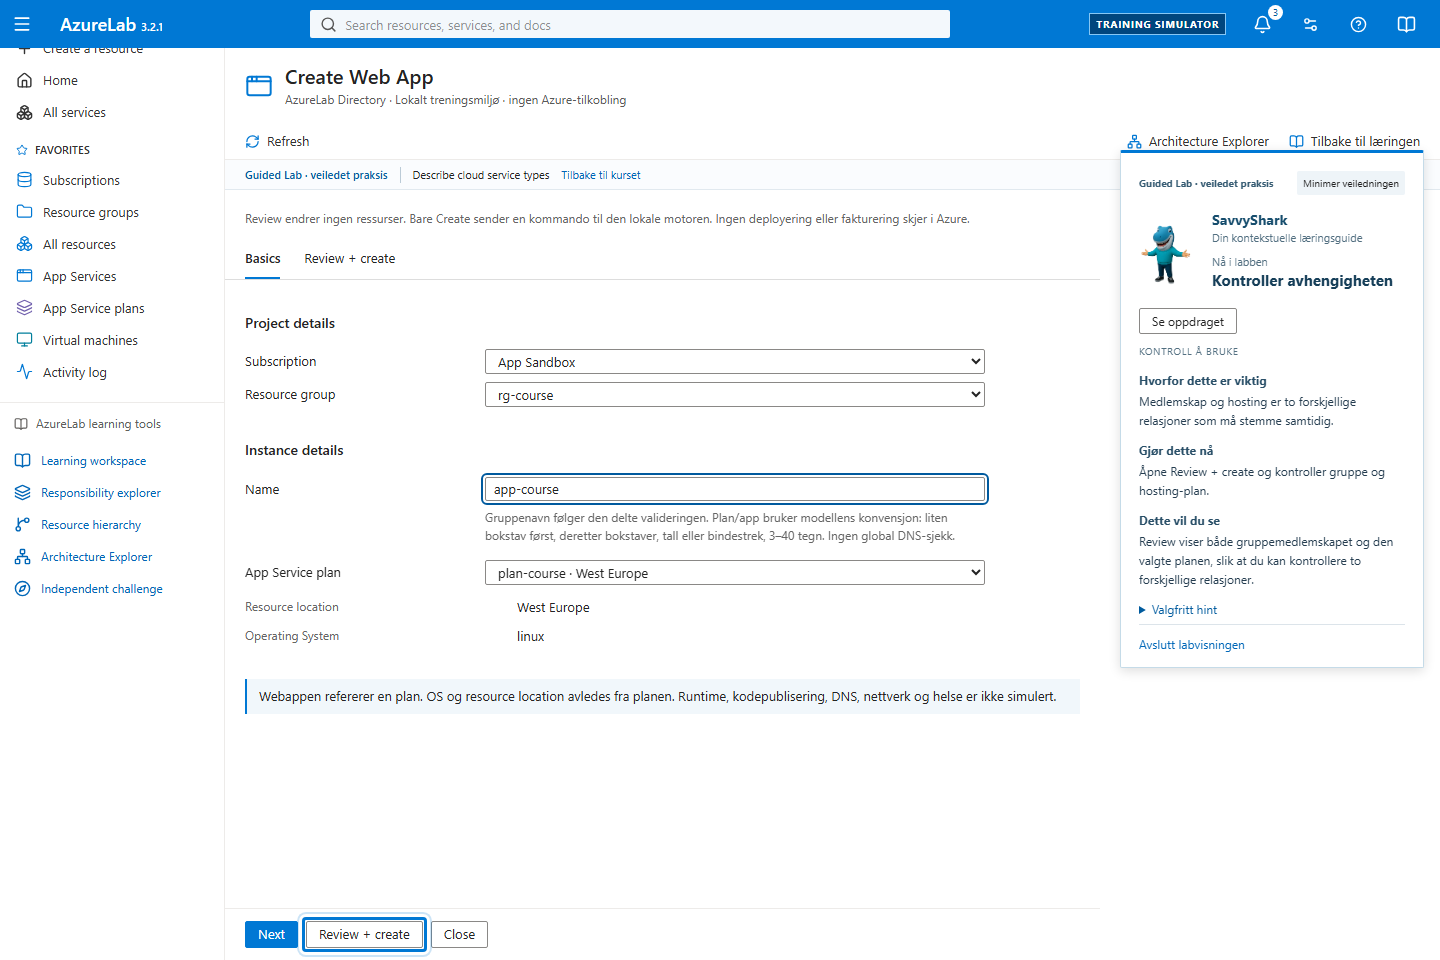
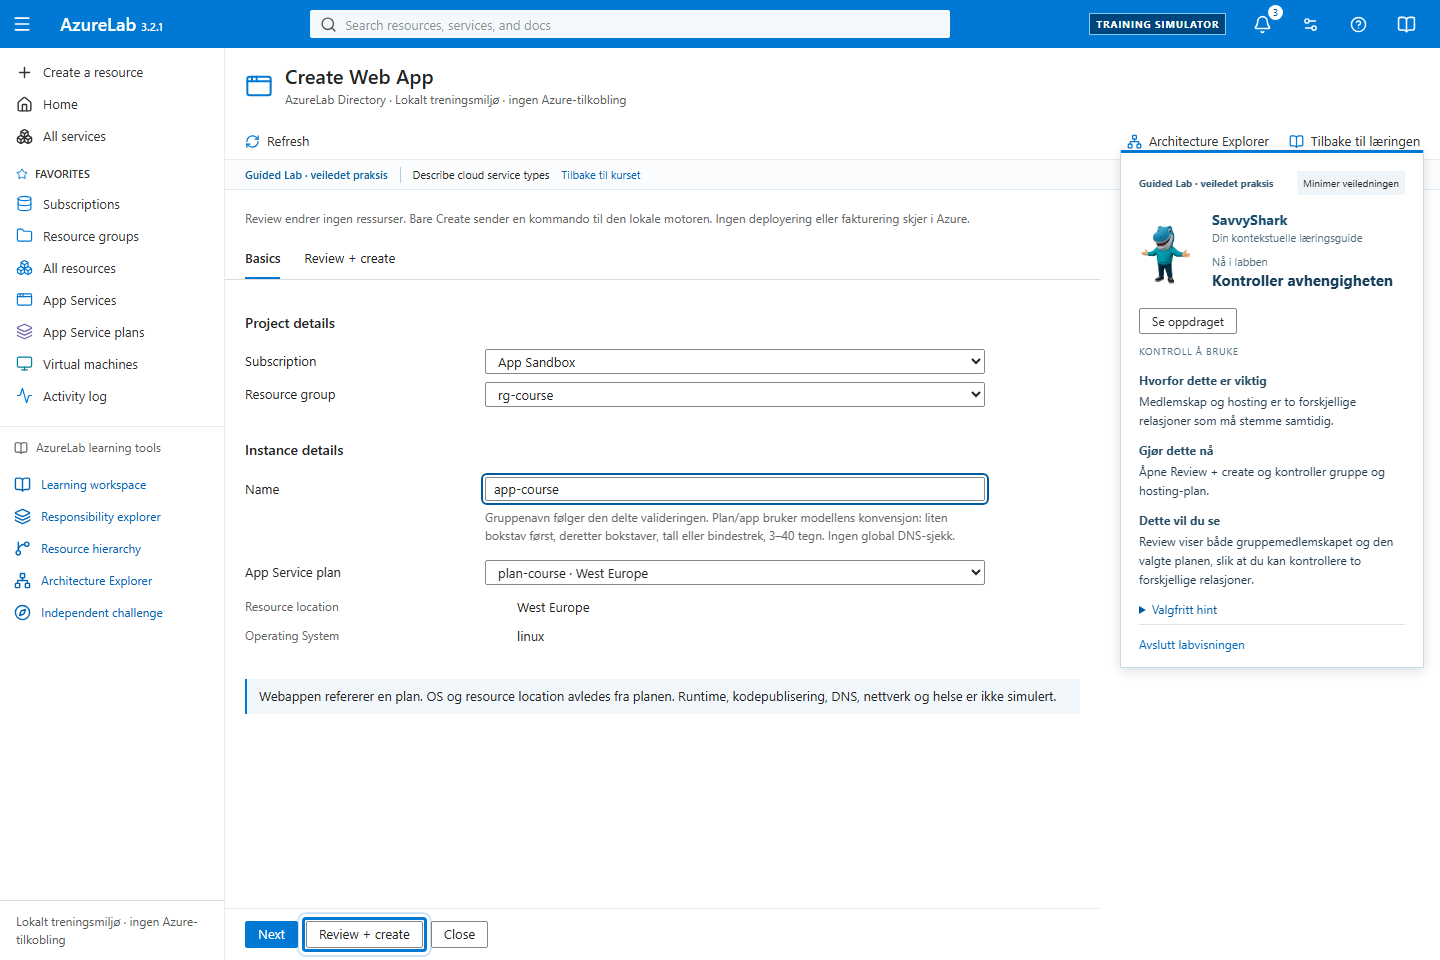
Keep service navigation docked and make PaaS inspection context-specific

Changed region(s): [[0.0, 0.0312, 0.125, 0.6562], [0.0, 0.9375, 0.125, 1.0]]

diff --git a/src/content/nb.ts b/src/content/nb.ts
@@ -4091,6 +4091,12 @@ export const learningPolishNb = {
       'Les valideringen. Rett feil, eller velg Create når den er gyldig.',
       'Bare en akseptert kvittering legger ressurser i samme autoritative inventory.',
     ],
+    inspectPaas: [
+      'Undersøk appkonfigurasjon og hosting',
+      'Appen er medlem av en resource group, men bruker planen som hosting-avhengighet. Innstillinger er et eget kundeansvar.',
+      'Åpne appen nedenfor, les de lagrede innstillingene og planreferansen, og bekreft inspeksjonen.',
+      'Sammenlign appens plan, avledede lokasjon og anvendte innstillinger med Architecture Explorer. Ingen kodekjøring eller restart er bekreftet.',
+    ],
     inspect: [
       'Følg de faktiske relasjonene',
       'Medlemskap, diskavhengighet og nettverkstilknytning betyr forskjellige ting.',

diff --git a/tests/e2e/portal-fidelity.spec.ts b/tests/e2e/portal-fidelity.spec.ts
@@ -185,6 +185,17 @@ for (const [width, height] of [
     await expect(page.locator('.portal-resource-main')).toContainText(ui.localId);
     await expect(page.locator('.portal-resource-main')).toContainText('app-fidelity');
     await expect(page.locator('.portal-app-settings')).toHaveCount(0);
+    if (width! > 1100) {
+      expect(
+        await page
+          .locator('.portal-nav')
+          .evaluate(
+            (el) =>
+              el.getBoundingClientRect().top >=
+              document.querySelector('.portal-header')!.getBoundingClientRect().bottom,
+          ),
+      ).toBe(true);
+    }
     await page.getByRole('button', { name: /Notifications/ }).click();
     await expect(page.locator('.portal-side-panel')).toBeVisible();
     await audit(page);

diff --git a/tests/e2e/practical-labs.spec.ts b/tests/e2e/practical-labs.spec.ts
@@ -334,6 +334,8 @@ test('root course to persisted VM, app settings, separate SaaS, exact debrief an
   await desktopEvidence(page, info, 'app-settings');
   await page.getByRole('button', { name: t.settings.apply, exact: true }).click();
   await expect(page.locator('.portal-infrastructure')).toContainText('staging');
+  await expect(page.locator('.practical-coach')).toContainText(polish.guide.inspectPaas[3]);
+  await expect(page.locator('.practical-coach')).not.toContainText(polish.guide.inspect[3]);
   await inspect(page);
   await page.reload();
   await expect(page.locator('.portal-infrastructure')).toContainText('read-only');

diff --git a/src/features/course/practical-lab.tsx b/src/features/course/practical-lab.tsx
@@ -437,7 +437,8 @@ export function PracticalCoach({
     `${location.area}:${location.id}:${location.kind}`,
   );
   if (!active || !s) return null;
-  const instruction = polish.guide[phase];
+  const instruction =
+    phase === 'inspect' && s.kind === 'paas' ? polish.guide.inspectPaas : polish.guide[phase];
   return (
     <>
       {bounds?.visible && (

diff --git a/src/features/portal/portal.css b/src/features/portal/portal.css
@@ -259,6 +259,11 @@
   min-height: calc(100dvh - 48px);
 }
 .portal-nav {
+  position: sticky;
+  top: var(--portal-header);
+  height: calc(100dvh - var(--portal-header));
+  align-self: flex-start;
+  overflow-y: auto;
   width: var(--portal-nav);
   flex: 0 0 var(--portal-nav);
   background: #fff;

diff --git a/docs/PORTAL_REFERENCE_FIDELITY.md b/docs/PORTAL_REFERENCE_FIDELITY.md
@@ -49,9 +49,9 @@ No domain, replay adapter, store, assessment, XP, dependency or lockfile change.
 
 ### Actual visual review
 
-Compared official public form/menu/appearance screenshots and private owner Home/VM compositions against the running production-built AzureLab. Original baseline: [PR16 VM1440](screenshots/cleanup-portal-1440.png). After: [VM1440](screenshots/portal-fidelity-vm-1440.png), [Home1920](screenshots/portal-fidelity-home-1920.png), [Overview1366](screenshots/portal-fidelity-overview-1366.png), [compact Overview1024](screenshots/portal-fidelity-overview-1024.png), [settings1440](screenshots/portal-fidelity-settings-1440.png), [notifications1366](screenshots/portal-fidelity-notifications-1366.png), [guided RG](screenshots/portal-fidelity-group-guided.png), [plan](screenshots/portal-fidelity-plan-guided.png), [Web App](screenshots/portal-fidelity-app-guided.png), [actual denial/guide](screenshots/portal-fidelity-denial.png). The full tests also capture every Home/list/VM form/Overview/settings/panel at1920,1440,1366,1024; raw images/traces/videos remain ignored test artifacts.
+Compared official public form/menu/appearance screenshots and private owner Home/VM compositions against the running production-built AzureLab. Original baseline: [PR16 VM1440](screenshots/cleanup-portal-1440.png). Comparable guided VM1440 after: [same lab/viewport](screenshots/portal-fidelity-vm-guided-1440.png). Other reviewed output: [VM1440](screenshots/portal-fidelity-vm-1440.png), [Home1920](screenshots/portal-fidelity-home-1920.png), [Overview1366](screenshots/portal-fidelity-overview-1366.png), [compact Overview1024](screenshots/portal-fidelity-overview-1024.png), [settings1440](screenshots/portal-fidelity-settings-1440.png), [notifications1366](screenshots/portal-fidelity-notifications-1366.png), [guided RG](screenshots/portal-fidelity-group-guided.png), [plan](screenshots/portal-fidelity-plan-guided.png), [Web App](screenshots/portal-fidelity-app-guided.png), [actual denial/guide](screenshots/portal-fidelity-denial.png). The full tests also capture every Home/list/VM form/Overview/settings/panel at1920,1440,1366,1024; raw images/traces/videos remain ignored test artifacts.
 
-Inspection found and corrected: Home losing its semantic H1, unsupported expanded ARIA on a searchbox, excess VM/name-helper spacing, overly tall RG/plan/Web grouping, misleading Create on VM Overview, lost app settings breadcrumb/resource section, coach width remaining reserved when minimized, original small-screen stylesheet collisions,320px header overflow and390px tab-strip overflow. The actual Vercel walkthrough additionally found the sticky header covering a focused title after long-form submission; navigation now focuses without browser-default scrolling, then scrolls the title immediately using the actual header offset. The retained VM creation regression asserts focus and visible framing. Final screenshots are actual output after correction, not mockups. Public reference zoom/content differ from our synthetic fixtures; no numeric similarity/pixel-parity or physical-device performance claim is justified.
+Inspection found and corrected: Home losing its semantic H1, unsupported expanded ARIA on a searchbox, excess VM/name-helper spacing, overly tall RG/plan/Web grouping, misleading Create on VM Overview, lost app settings breadcrumb/resource section, coach width remaining reserved when minimized, original small-screen stylesheet collisions,320px header overflow and390px tab-strip overflow. The actual Vercel walkthrough additionally found the sticky header covering a focused title after long-form submission; navigation now focuses without browser-default scrolling, then scrolls the title immediately using the actual header offset. The retained VM creation regression asserts focus and visible framing. The same review exposed the service rail scrolling under the header; it now stays docked with its own bounded scroll, asserted on every docked desktop test. Final screenshots are actual output after correction, not mockups. Public reference zoom/content differ from our synthetic fixtures; no numeric similarity/pixel-parity or physical-device performance claim is justified.
 
 ### Reproducible owner walkthrough
 

diff --git a/docs/PROJECT_STATUS.md b/docs/PROJECT_STATUS.md
@@ -1,10 +1,12 @@
 # Project status
 
+The actual Portal walkthrough also exposed shared inspection copy asking PaaS learners to compare VM/disk/NIC. PaaS inspection now explains the actual app settings, hosting reference and derived location; the original VM explanation is retained for VM labs. This is authored presentation selection only, with explicit guided E2E assertions; no objective, completion predicate, assessment or source fact changes.
+
 ## Reference-led Portal refinement — 2026-10-26
 
 Base verified `codex/legacy-cleanup` at `4c377cb44b30e4a41a25015b7eeccdf0e6745602`; isolated branch `codex/azure-portal-high-fidelity`, stacked on PR16. PR14/15/16 and production configuration remain unchanged. `/` still enters the actual course; existing Free sandbox and practical links expose the delivery in the real `/portal`.
 
-Implemented common compact shell/tokens, English operational controls, Home discovery/actual session recents, local keyboard search, sortable real inventory tables, docked/flyout session preference, service-specific resource menus/search/breadcrumbs, linked Essentials/Properties, VM disk/NIC inspection, consistent RG/plan/Web/VM forms and right-hand notifications. The protected preview exposed sticky-header/title overlap after VM submission; explicit immediate focus/scroll plus header-aware margins fix it, with a retained full-flow framing assertion. App settings now follows Edit → Save draft → separate Apply; only the unchanged command persists. SavvyShark keeps its brief/guidance/recall and really releases reserved width when minimized. No new dependencies, models, stores, evidence/XP/rubric changes, data migration or Azure integration. [Dated gap matrix, comparison, reviewed screenshots and remaining differences](PORTAL_REFERENCE_FIDELITY.md).
+Implemented common compact shell/tokens, English operational controls, Home discovery/actual session recents, local keyboard search, sortable real inventory tables, docked/flyout session preference, service-specific resource menus/search/breadcrumbs, linked Essentials/Properties, VM disk/NIC inspection, consistent RG/plan/Web/VM forms and right-hand notifications. The protected preview exposed sticky-header/title overlap after VM submission; explicit immediate focus/scroll, header-aware margins and a separately scrolling sticky service rail fix it, with a retained full-flow framing assertion. App settings now follows Edit → Save draft → separate Apply; only the unchanged command persists. SavvyShark keeps its brief/guidance/recall and really releases reserved width when minimized. No new dependencies, models, stores, evidence/XP/rubric changes, data migration or Azure integration. [Dated gap matrix, comparison, reviewed screenshots and remaining differences](PORTAL_REFERENCE_FIDELITY.md).
 
 ### Executed engineering verification
 

diff --git a/docs/ROADMAP.md b/docs/ROADMAP.md
@@ -1,5 +1,11 @@
 # Roadmap
 
+## Reference-led Portal workspace — implemented review candidate, 2026-10-26
+
+Shared shell, Home/search/lists, service-specific resource inspection, RG/VM/plan/Web form presentation, settings Edit/draft/Apply and minimizable SavvyShark are implemented on the isolated PR16 stack. Actual preview review additionally corrected sticky-header title focus, docked menu scrolling and PaaS-specific inspection copy. Technical models, evidence and stored records remain unchanged. [References, comparison and deliberate limits](PORTAL_REFERENCE_FIDELITY.md); [executed verification](PROJECT_STATUS.md).
+
+Next gate is owner/Azure-administrator review of navigation and supported form/inspection transfer plus novice and assistive-technology exercises. Pixel parity, authenticated tenant testing and educational effectiveness remain unproven. Correct observed transfer defects before adding services; no merge or production release is implied by passing engineering checks.
+
 ## Legacy retirement — 2026-10-26
 
 Retire the obsolete product implementations before further curriculum expansion. Current course/lab UX, human novice/IT/SME review and preserved evidence remain the next priorities. G1/RPG/SVG/Living Learning roadmap sections below are historical and are not scheduled active work. Further removal of frozen simulation/assessment compatibility needs separate data-contract proof; do not delete it by filename. See [audit](LEGACY_AUDIT.md).

diff --git a/docs/GUIDED_SANDBOX_ENGINE.md b/docs/GUIDED_SANDBOX_ENGINE.md
@@ -1,5 +1,7 @@
 # Guided sandbox engine
 
+The actual Portal walkthrough also exposed shared inspection copy asking PaaS learners to compare VM/disk/NIC. PaaS inspection now explains the actual app settings, hosting reference and derived location; the original VM explanation is retained for VM labs. This is authored presentation selection only, with explicit guided E2E assertions; no objective, completion predicate, assessment or source fact changes.
+
 ## Portal workspace separation — 2026-10-26
 
 Guide evaluators, target IDs and receipt predicates are unchanged. Portal CSS reserves width only for an expanded actual coach; minimized guidance exposes the full operational surface and can be reopened/brief recalled without resetting. Service navigation stays authentic while training tools use a separate disclosure. Field targets remain on the real controls. In Environment variables, the settings target is the actual Edit control, moving to the enum selector while its native editor is open; Save draft alone never satisfies persisted settings. Only the unchanged Apply result does. No auto-configuration, new flags, click counters or independent solution highlights.
